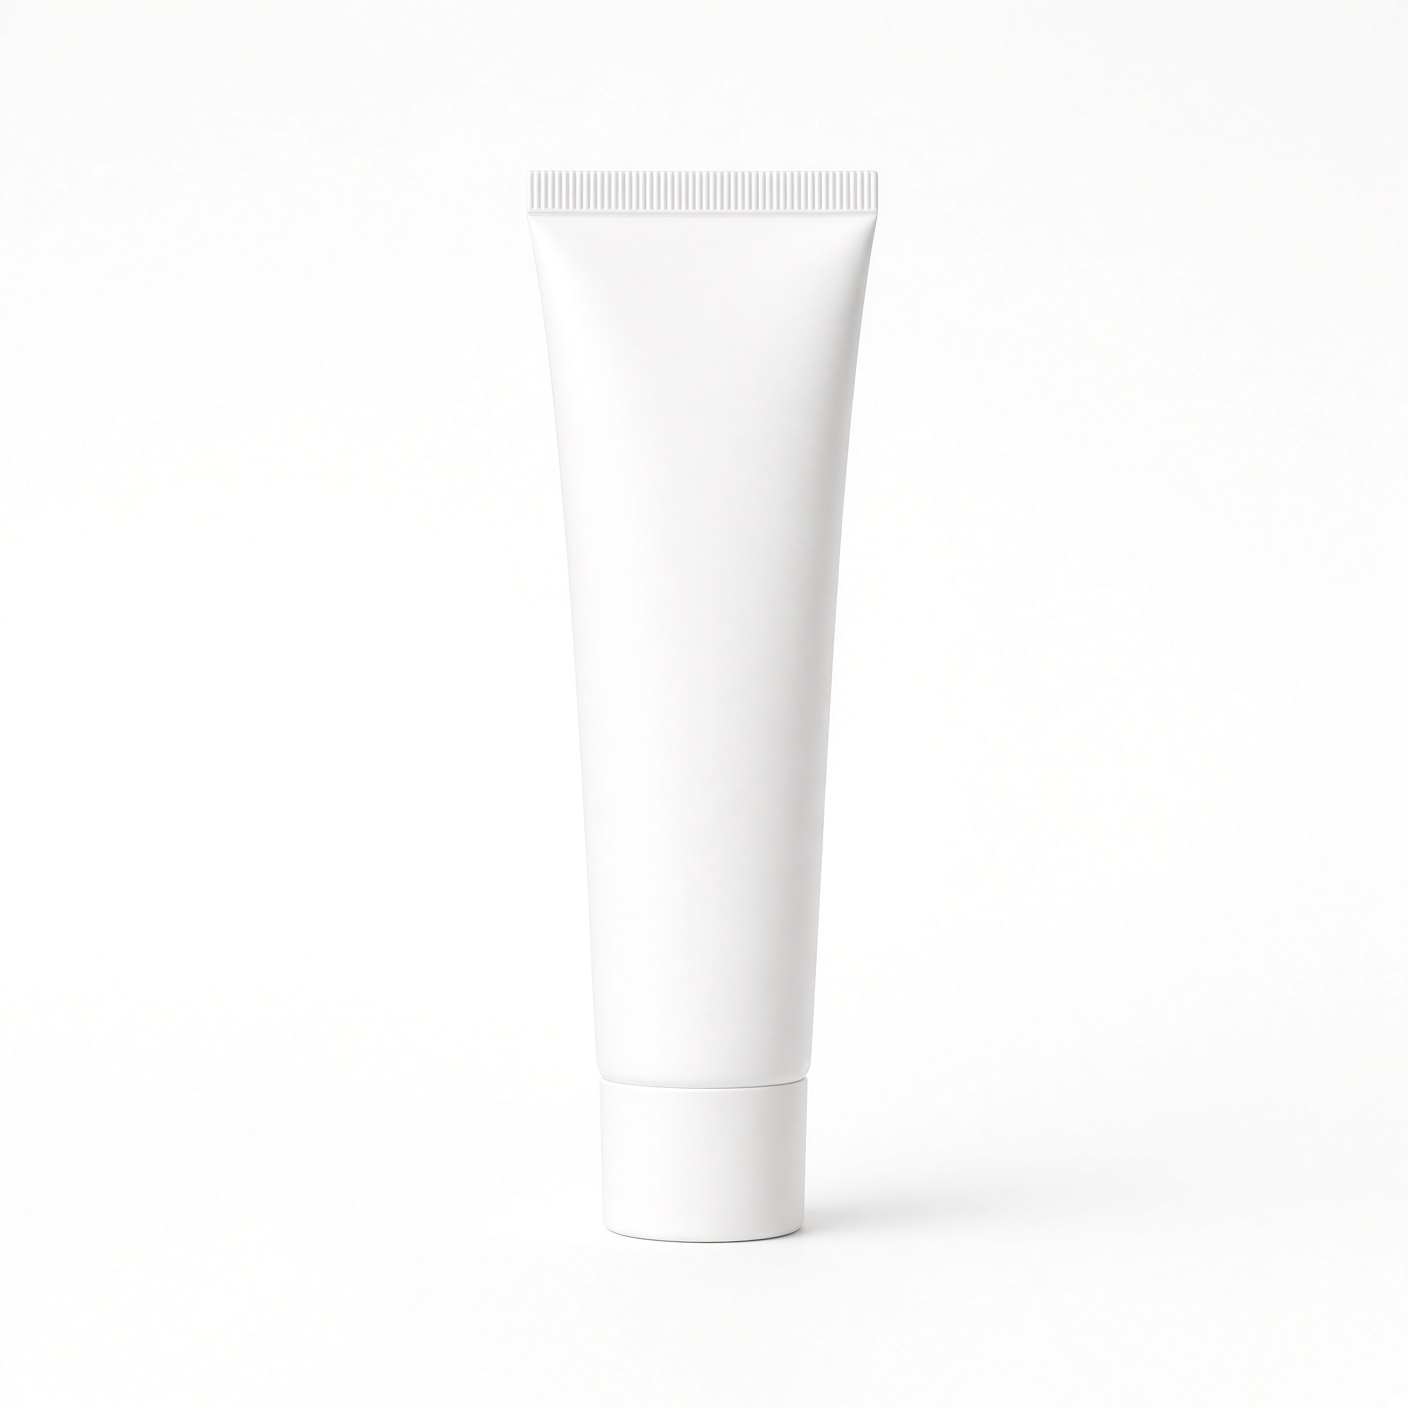
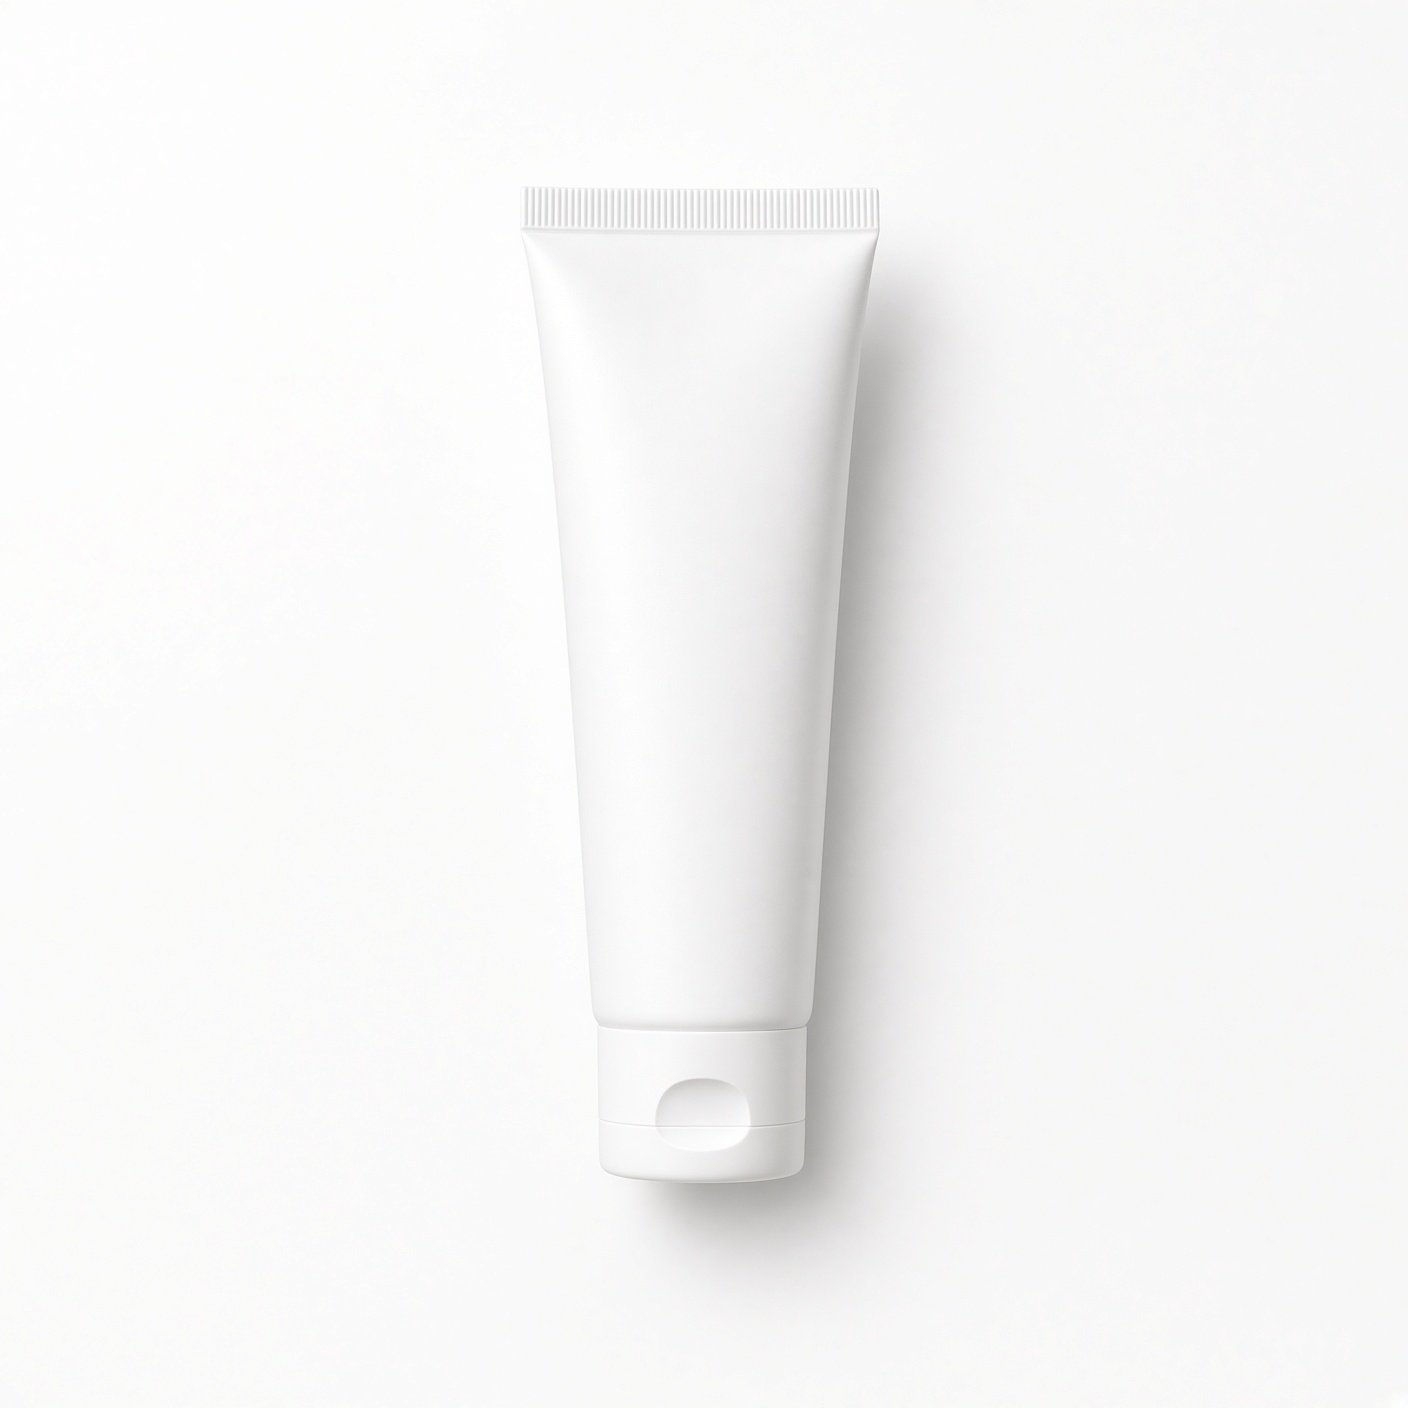
feat(save): real grocery cards — contained stills, not a photo wall
White 18px cards on the light canvas. Product sits in a padded #f5f5f7
tile with object-fit contain, never full-bleed, never cropped at the
edge. Name, pack, price / Save amount, 44px Check/Add. 2-up phone,
3-up desktop, equal heights.

Replace palm/flower/spill stills with complete single-product shots on
white. Drop invented prices. Studio-bulk tests write PNGs in Node so
CI verify does not need Pillow.

Changed region(s): [[0.375, 0.125, 0.6875, 0.9062], [0.4688, 0.75, 0.5, 0.7812]]

diff --git a/commerce.js b/commerce.js
@@ -156,11 +156,11 @@ function languageCard(){return `<section class="mesha-lang" aria-labelledby="mes
 async function chooseLang(next){if(!validLanguage(next))return;try{await loadLanguage(next);lang=next;save('nia-language',lang);$('#dialog').close();render();}catch{toast(t('Language could not be loaded. Check your connection and try again.','भाषा लोड नहीं हुई। कनेक्शन जाँचकर फिर कोशिश करें।'));}}
 function footer(){return `<footer class="footer"><span>${t('Make leaving home worth it.','घर से दूर आना सार्थक हो।')}</span><div class="footer-links"><a href="https://www.nia.one/">${t('Why Nia','निया क्यों')}</a><button class="quiet" data-action="help">${t('Help')}</button></div></footer>`;}
 function saveHero(){return `<button type="button" class="mesha-save-hero" data-action="shop-hero" aria-label="${t('Shop oils','तेल खरीदें')}"><span class="mesha-kicker">${t('Save')}</span><span class="mesha-save-title">${t('Keep more.','और रखें।')}</span><span class="mesha-save-sub">${t('Oil, soap, detergent — member price.','तेल, साबुन, डिटर्जेंट — सदस्य कीमत।')}</span><span class="mesha-pill mesha-pill-solid">${t('Shop oils','तेल खरीदें')}</span><span class="mesha-save-still"><img src="/assets/oils-editorial-sheet.png" alt="" width="1200" height="800"></span></button>`;}
-function saveAisle(){const tiles=shopTilesFor(category);if(!tiles.length)return categoryEmpty();return `<div class="save-product-grid save-aisle-grid" role="list">${tiles.map(tile=>{const pack=manufacturersFor(tile.id,SHOP_THEATRE.id)[0]?.pack||'';return `<button type="button" class="save-product-card save-aisle-tile" data-action="open-aisle" data-id="${esc(tile.id)}" role="listitem"><span class="save-product-tile save-aisle-photo">${photo({id:tile.photoId})}</span><span class="save-product-body save-aisle-copy"><h3>${esc(t(tile.name,tile.hindi))}</h3>${pack?`<p class="save-product-pack">${esc(t(pack))}</p>`:''}<p class="save-product-meta">${t('3 manufacturers','3 निर्माता')}</p><span class="save-product-cta">${t('Check','देखें')}</span></span></button>`;}).join('')}</div>`;}
+function saveAisle(){const tiles=shopTilesFor(category);if(!tiles.length)return categoryEmpty();return `<div class="save-product-grid save-aisle-grid" role="list">${tiles.map(tile=>{const mills=manufacturersFor(tile.id,SHOP_THEATRE.id,{includePrices:Boolean(cat?.preview)});const pack=mills[0]?.pack||'';const matched=mills.map(m=>millOrderProduct(m,cat?.products||[])).find(p=>p&&reserveReady(p))||null;const price=matched?makerPrice({nia_price_inr:matched.price,kirana_price_inr:matched.kirana,you_save:productKeep(matched)}):`<p class="save-maker-wait">${t('Price when packs confirm','कीमत पैक पुष्टि पर')}</p>`;const cta=matched?t('Add','जोड़ें'):t('Check','देखें');return `<button type="button" class="save-product-card save-aisle-tile" data-action="open-aisle" data-id="${esc(tile.id)}" role="listitem"><span class="save-product-tile save-aisle-photo">${photo({id:tile.photoId})}</span><span class="save-product-body save-aisle-copy"><h3>${esc(t(tile.name,tile.hindi))}</h3>${pack?`<p class="save-product-pack">${esc(t(pack))}</p>`:''}${price}<span class="save-product-cta">${cta}</span></span></button>`;}).join('')}</div>`;}
 function makerPrice(row){if(!Number.isFinite(Number(row.nia_price_inr)))return `<p class="save-maker-wait">${t('Price when packs confirm','कीमत पैक पुष्टि पर')}</p>`;const kirana=Number.isFinite(Number(row.kirana_price_inr))?`<span class="save-maker-kirana">${t('Kirana','किराना')} ${money(row.kirana_price_inr)}</span>`:'';const saveAmt=row.you_save!=null?Number(row.you_save):null;return `<div class="save-maker-price save-product-price-row">${kirana}<span class="save-maker-nia save-product-price"><small>Nia</small><strong>${money(row.nia_price_inr)}</strong></span>${saveAmt>0?`<span class="save-maker-save save-product-save"><small>${t('Save','बचत')}</small><strong>${money(saveAmt)}</strong></span>`:''}</div>`;}
 function millCard(row){const tile=shopTilesFor('all').find(x=>x.id===row.category);const photoId=tile?.photoId||row.category;const productName=tile?t(tile.name,tile.hindi):row.category;const matched=millOrderProduct(row,cat?.products||[]);const product=matched||(cat?.products||[]).find(p=>p.id===photoId)||null;const orderable=Boolean(matched&&reserveReady(matched));const testMark=(matched?.test||row.test)?`<span class="save-maker-test">${t('TEST','परीक्षण')}</span>`:'';const cheapest=row.cheapest?`<span class="save-maker-badge">${t('Lowest in this theatre','इस थिएटर में सबसे सस्ता')}</span>`:'';const priced=orderable?{nia_price_inr:matched.price,kirana_price_inr:matched.kirana,you_save:productKeep(matched)}:row;const price=makerPrice(priced);const cta=`<span class="save-maker-cta save-product-cta">${orderable?t('Add','जोड़ें'):t('Check','देखें')}</span>`;const inner=`<span class="save-product-tile save-maker-still">${photo({id:photoId})}</span><span class="save-product-body"><div class="save-maker-top"><h3>${esc(productName)}</h3>${testMark}${cheapest}</div><p class="save-maker-name save-product-mill">${esc(row.manufacturer)}</p><p class="save-maker-pack save-product-pack">${esc(row.pack)}</p>${price}${cta}</span>`;const klass=`save-product-card save-maker-card${row.cheapest?' is-cheapest':''}${orderable?' is-orderable':''}`;const meta=`data-category="${esc(row.category)}" data-theatre="${esc(row.theatre)}" data-manufacturer="${esc(row.manufacturer)}"`;return product?`<button type="button" class="${klass}" data-action="open-buy" data-id="${esc(product.id)}" ${meta}>${inner}</button>`:`<article class="${klass}" ${meta}>${inner}</article>`;}
 function saveMakers(){const rows=manufacturersFor(aisle,SHOP_THEATRE.id,{includePrices:Boolean(cat?.preview)});const tile=shopTilesFor('all').find(x=>x.id===aisle);const heading=tile?t(tile.name,tile.hindi):t('Save');return `<div class="save-makers save-product-grid"><div class="save-makers-head"><button type="button" class="quiet save-makers-back" data-action="close-aisle">${t('Back to Save','Save पर वापस')}</button><h2>${esc(heading)}</h2><p>${t('Local mills in this theatre','इस थिएटर की स्थानीय मिलें')} · ${esc(t('Rajputana Theatre','राजपूताना थिएटर'))} · ${esc(SHOP_THEATRE.collect)}</p></div>${rows.map(millCard).join('')}${rows.length?'':categoryEmpty()}</div>`;}
-function shop(){if(category==='insurance')return insuranceView();const body=aisle?saveMakers():saveAisle();return `<div class="intro store-head"><h1>${t('Save')}</h1><p>${t('Everyday essentials','रोज़ का सामान')}</p></div>${!aisle&&category==='all'?saveHero():''}${saveTabs()}${body}${footer()}${bagChip()}${bagOpen?bagLayer():''}`;}
+function shop(){if(category==='insurance')return insuranceView();const body=aisle?saveMakers():saveAisle();return `<div class="save-shop-canvas"><div class="intro store-head"><h1>${t('Save')}</h1><p>${t('Everyday essentials','रोज़ का सामान')}</p></div>${!aisle&&category==='all'?saveHero():''}${saveTabs()}${body}${footer()}</div>${bagChip()}${bagOpen?bagLayer():''}`;}
 function showBuy(id){const p=cat?.products?.find(p=>p.id===id);if(!p)return;return show(title(p),`<div class="buy-sheet" data-buy-id="${p.id}">${photo(p,'detail-photo')}${p.test?`<p class="info">${t('TEST pack. Pay when you collect.','परीक्षण पैक। लेते समय पैसे दें।')}</p>`:''}${pricePair(productKeep(p),p.price)}<p class="pack">${esc(t(p.pack||PENDING_PACK))}</p><p>Collect at Nia Nest Ompal</p><div class="buy-row">${cart[p.id]&&reserveReady(p)?stepper(p):reserveReady(p)?`<button class="add" data-action="add" data-id="${p.id}">${t('Add','जोड़ें')}</button>`:`<button class="add" type="button" disabled>${t('Ask Nia','निया से पूछें')}</button>`}</div><p>${t('Pay when you collect.','लेते समय पैसे दें।')}</p>${reserveReady(p)?'':`<p class="info">${t('Ask Nia about this pack.','इस पैक के बारे में निया से पूछें।')}</p>`}${cat.preview?`<p class="info">${t('Illustrative image. Pack size and supplier details need confirmation before the pilot opens.','उदाहरण चित्र। पायलट शुरू होने से पहले पैक साइज़ और सप्लायर जानकारी की पुष्टि चाहिए।')}</p>`:''}</div>`);}
 const statusText = status => ({reserved:t('Reserved','बुक हो गया'),packed:t('Packed','पैक हो गया'),loaded:t('On the way','रास्ते में'),at_stop:t('Ready to collect','लेने के लिए तैयार'),collected:t('Collected','मिल गया'),expired:t('Reservation expired','बुकिंग का समय समाप्त'),cancelled:t('Cancelled','रद्द'),return_pending:t('Return being checked','वापसी की जाँच हो रही है'),returned:t('Returned','वापस हो गया')})[status] || status;
 function ordersView(){return `<div class="page"><h1>${t('Your orders & stays','आपके ऑर्डर और नेस्ट')}</h1>${earnHistory()}${nestOrdersView()}<button data-action="refresh-orders">${t('Refresh status','स्थिति ताज़ा करें')}</button><p></p>${orders.length?orders.map(o=>`<article class="order"><div class="row"><h2>${t('Your essentials','आपका ज़रूरी सामान')}</h2><span class="badge">${esc(statusText(o.status))}</span></div><div class="code">${esc(o.pickupCode)}</div><p>${t('Show this code when you collect.','सामान लेते समय यह कोड दिखाएँ।')}<br><small>${esc(o.id)}</small></p><ul>${o.lines.map(l=>`<li>${esc(t(l.name))} × ${l.qty} · ${money(l.nia*l.qty)}</li>`).join('')}</ul><p><strong>${esc(t(o.location.name))}</strong><br>${esc(t(o.location.address))}<br>${esc(date(o.location.windowStart))} – ${esc(date(o.location.windowEnd))}</p><p>${t('Collect before','इस समय से पहले लें')}: <strong>${esc(date(o.expiresAt))}</strong></p><div class="receipt"><div class="row"><span>${t('Total','कुल')}</span><strong>${money(o.amount)}</strong></div><p>${o.refund?t('Refund recorded · see reference below','रिफंड दर्ज · संदर्भ नीचे देखें'):o.paid?t('UPI payment verified by staff','टीम ने UPI भुगतान की पुष्टि की'):t('Unpaid · Pay by UPI when you collect','भुगतान बाकी · सामान लेते समय UPI से दें')}</p>${o.payment?`<small>${t('Payment reference','भुगतान संदर्भ')}: ${esc(o.payment.reference)}</small>`:''}${o.refund?`<p>${t('Refund reference','रिफंड संदर्भ')}: ${esc(o.refund.reference)} · ${money(o.refund.amount)}</p>`:''}</div><div class="order-actions">${o.status==='reserved'?`<button data-action="cancel" data-id="${o.id}">${t('Cancel reservation','बुकिंग रद्द करें')}</button>`:''}<button data-action="reorder" data-id="${o.id}">${t('Add again','फिर जोड़ें')}</button><button data-action="order-help" data-id="${o.id}">${t('Get help','मदद लें')}</button></div>${issues.filter(v=>v.orderId===o.id).map(v=>`<p class="info">${t('Help request','मदद का अनुरोध')} ${esc(v.id)} · ${esc(t(v.status))}<br>${esc(v.note)}</p>`).join('')}</article>`).join(''):`<div class="panel empty"><h2>${t('No essentials orders yet','अभी सामान का कोई ऑर्डर नहीं')}</h2><p>${t('Once you reserve, your collection code and updates appear here.','बुकिंग के बाद आपका कोड और स्थिति यहाँ दिखेंगे।')}</p><button data-action="shop">${t('Browse essentials','ज़रूरी सामान देखें')}</button></div>`}${footer()}</div>`;}

diff --git a/niasave-apple-store.css b/niasave-apple-store.css
@@ -250,8 +250,9 @@ body.mesha-dark button.quiet{color:var(--nia-accent);background:transparent;bord
 /* Save aisle — typography on white, oils still contained in a rounded card. */
 body.mesha-dark .mesha-save-hero{
   display:flex;flex-direction:column;align-items:center;justify-content:flex-start;
-  min-height:0;margin:8px 16px 18px;padding:24px 20px 20px;border-radius:var(--nia-radius);
-  background:var(--nia-canvas);background-image:none;color:var(--nia-ink);text-align:center;cursor:pointer;
+  min-height:0;margin:8px 16px 12px;padding:20px 20px 16px;border-radius:var(--nia-radius);
+  background:transparent;background-image:none;color:var(--nia-ink);text-align:center;cursor:pointer;
+  box-shadow:none;border:0;
 }
 body.mesha-dark .mesha-save-hero:before,
 body.mesha-dark .mesha-save-hero:after{
@@ -261,12 +262,12 @@ body.mesha-dark .mesha-save-hero > *{
   position:relative;z-index:1;background:transparent;padding:0;color:var(--nia-ink);order:1;
 }
 body.mesha-dark .mesha-save-still{
-  display:block;order:2;width:100%;margin-top:18px;padding:10px;box-sizing:border-box;
+  display:block;order:2;width:min(200px,56%);margin:14px auto 0;padding:10px;box-sizing:border-box;
   background:var(--nia-band);border-radius:12px;
 }
 body.mesha-dark .mesha-save-still img{
-  display:block;width:100%;height:auto;max-height:min(36vh,280px);
-  object-fit:cover;object-position:50% 40%;border-radius:10px;
+  display:block;width:100%;height:auto;max-height:120px;
+  object-fit:contain;object-position:center;border-radius:10px;
 }
 body.mesha-dark .mesha-save-title{font-size:34px;font-weight:600;letter-spacing:-.03em;color:var(--nia-ink);margin:8px 0 10px}
 body.mesha-dark .mesha-save-sub{color:var(--nia-muted);max-width:28ch;margin:0 auto 16px}
@@ -298,8 +299,17 @@ body.mesha-dark .products{padding:0 16px 28px}
 body.mesha-dark .product{background:var(--nia-card);border-radius:var(--nia-radius);padding:12px;color:var(--nia-ink)}
 body.mesha-dark .product h3,body.mesha-dark .store-keep strong{color:var(--nia-ink)}
 
-/* Save shop = grocery product cards, never a photo wall.
-   One product, one contained still, one white card. Repeated uniformly. */
+/* Save shop = grocery product cards on a light canvas, never a photo wall.
+   White rounded card + inner light tile + contained still. Equal heights. */
+.save-shop-canvas{
+  background:var(--nia-band);
+  min-height:100%;
+  padding-bottom:8px;
+}
+body.mesha-dark main:has(.save-shop-canvas),
+body.mesha-dark main:has(.save-product-grid){
+  background:var(--nia-band)!important;
+}
 .save-product-grid,
 .save-aisle-grid,
 .save-makers{
@@ -310,6 +320,7 @@ body.mesha-dark .product h3,body.mesha-dark .store-keep strong{color:var(--nia-i
   max-width:980px;
   margin-inline:auto;
   align-items:stretch;
+  background:transparent;
 }
 .save-makers-head{grid-column:1/-1}
 .save-makers-back{min-height:44px;padding:0;margin:0 0 4px}
@@ -333,12 +344,12 @@ article.save-maker-card{
   height:100%;
   box-sizing:border-box;
   margin:0;
-  padding:14px!important;
+  padding:16px!important;
   background:#ffffff!important;
   color:var(--nia-ink);
-  border:1px solid var(--nia-line,#e5e5ea)!important;
+  border:1px solid var(--nia-line,#d2d2d7)!important;
   border-radius:18px!important;
-  box-shadow:0 1px 4px rgba(0,0,0,.04);
+  box-shadow:0 2px 10px rgba(0,0,0,.06);
   overflow:visible!important;
   min-height:44px;
   cursor:pointer;
@@ -361,7 +372,7 @@ article.save-maker-card{
   aspect-ratio:1/1;
   box-sizing:border-box;
   margin:0 0 12px;
-  padding:18px!important;
+  padding:22px!important;
   background:#f5f5f7!important;
   border-radius:14px;
   overflow:hidden;
@@ -376,7 +387,9 @@ article.save-maker-card{
   display:block!important;
   width:100%!important;
   height:100%!important;
-  max-height:100%;
+  max-width:100%!important;
+  max-height:100%!important;
+  aspect-ratio:auto!important;
   object-fit:contain!important;
   object-position:center!important;
   background:transparent!important;
